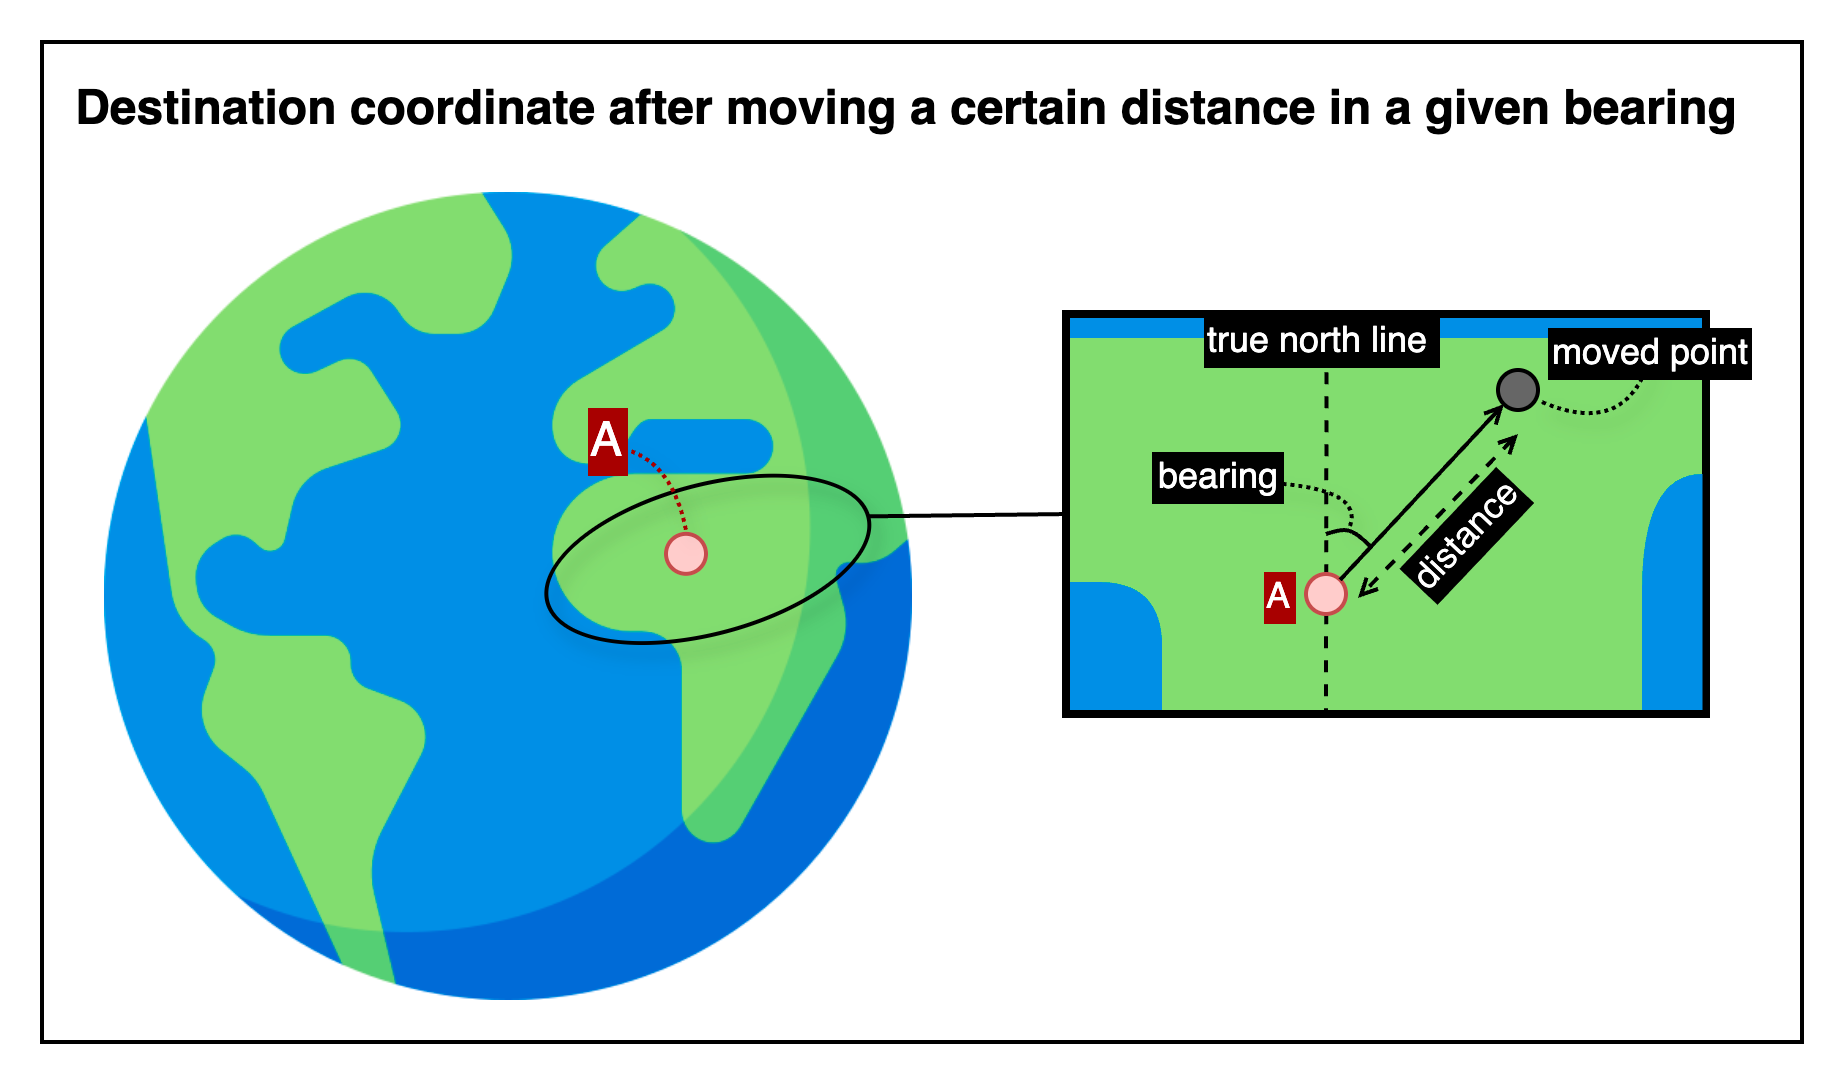
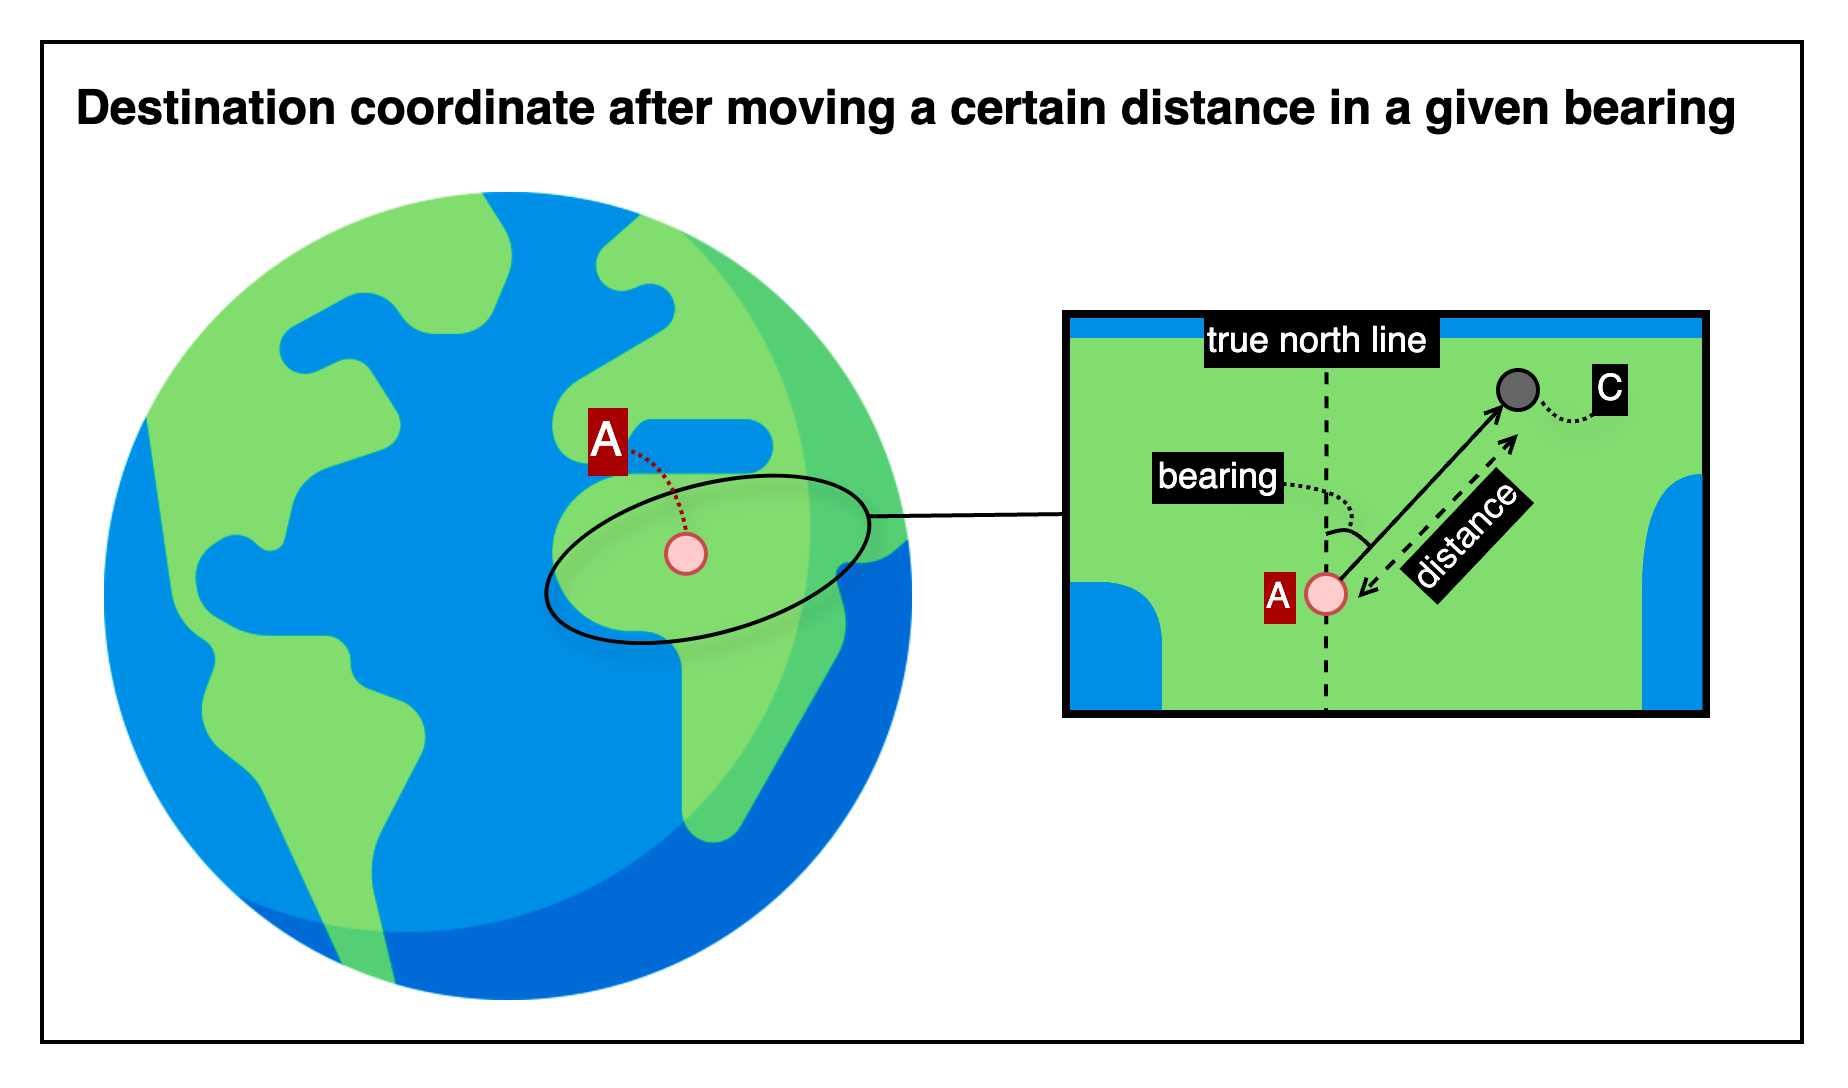
[docs] geo-calculation-toolkit-api 최신화

diff --git a/profile/projects/geo-calculation-toolkit-api/detail/destination-coordinate-after-moving-a-certain-distance-in-a-given-bearing.md b/profile/projects/geo-calculation-toolkit-api/detail/destination-coordinate-after-moving-a-certain-distance-in-a-given-bearing.md
@@ -1,0 +1,167 @@
+## Destination coordinate after moving a certain distance in a given bearing
+
+This is an HTTP API that calculates the destination coordinate after moving a specified distance in a given bearing from a starting point.
+
+---
+
+## 📚 Table of Contents
+
+1. [🧭 Overview](#-1-overview) — *For first-time users*
+2. [📤 Request Details](#-2-request-details) — *For developers integrating the API*
+    1. [Request Example](#21-request-example)
+    2. [Request Specifications](#22-request-specifications)
+3. [📥 Response Details](#-3-response-details)
+    1. [Response Example](#31-response-example)
+    2. [Response Specifications](#32-response-specifications)
+4. [💥 Error Response Details](#-4-error-response-details)
+    1. [Error Response Example](#41-error-response-example)
+    2. [Error Response Specifications](#42-error-response-specifications)
+    3. [Error Codes](#43-error-codes)
+5. [🔗 Reference Links](#-5-reference-links) — *For testing the API and retrieving your API key*
+
+---
+
+## 🧭 1. Overview
+
+![destination-coordinate-after-moving-a-certain-distance-in-a-given-bearing](./img/destination-coordinate-after-moving-a-certain-distance-in-a-given-bearing.png)
+
+This image shows how the API calculates a destination coordinate based on a specified starting point, distance, and bearing.
+
+- Point A represents the starting coordinate.
+- The dotted arc labeled “bearing” indicates the angular direction measured clockwise from true north.
+- The solid arrow line shows the movement from point A along that bearing for the specified distance.
+- Point C is the resulting coordinate — the geographic position reached after applying the movement.
+
+The API returns the resulting coordinate calculated using the given bearing and distance from the input point.
+
+---
+
+## 📤 2. Request Details
+
+### 2.1. Request Example
+
+```http request
+POST {{base-url}}/coordinate/move-in-bearing
+Content-Type: application/json
+
+{
+  "coordinate": {
+    "lat": 37.618492,
+    "lng": 126.920078
+  },
+  "bearing": 45,
+  "distance": 200,
+  "distanceUnit": "m"
+}
+```
+
+### 2.2. Request Specifications
+
+**2.2.1. Base Endpoint Info**
+
+| API Provider Platform | Method | Base URL(HTTP Protocol + Host)   | Path                             |
+|:---------------------:|:------:|----------------------------------|:---------------------------------|
+|       Rapid API       |  POST  | `https://yourapi.p.rapidapi.com` | `/coordinate/perpendicular-foot` |
+
+**2.2.2. Request Headers**
+
+| Header Name       | Type   | Required | Description                         |
+|-------------------|--------|----------|-------------------------------------|
+| `Content-Type`    | string | ✅ Yes    | Must be `application/json`          |
+| `X-RapidAPI-Key`  | string | ✅ Yes    | Your API key issued by RapidAPI     |
+| `X-RapidAPI-Host` | string | ✅ Yes    | The API host identifier on RapidAPI |
+
+**2.2.3. Request Body**
+
+| Field          | Type   | Required   | Description                                               |
+|----------------|--------|------------|-----------------------------------------------------------|
+| `coordinate`   | object | ✅ Yes      | Starting point from which the movement begins             |
+| └ `lat`        | number | ✅ Yes      | Latitude of the starting coordinate                       |
+| └ `lng`        | number | ✅ Yes      | Longitude of the starting coordinate                      |
+| `bearing`      | number | ✅ Yes      | Bearing in degrees (0–360), where 0° is true north        |
+| `distance`     | number | ✅ Yes      | Distance to move along the bearing                        |
+| `distanceUnit` | string | ❌ Optional | Unit of distance (`mm`, `m`, `km`, etc.). Defaults to `m` |
+
+---
+
+## 📥 3. Response Details
+
+### 3.1. Response Example
+
+```json
+{
+  "success": true,
+  "data": {
+    "coordinate": {
+      "lat": 37.618453,
+      "lng": 126.920180
+    }
+  }
+}
+```
+
+### 3.2. Response Specifications
+
+| Field          | Type    | Nullable | Description                                               |
+|----------------|---------|----------|-----------------------------------------------------------|
+| `success`      | boolean | ❌ No     | Indicates whether the operation succeeded                 |
+| `data`         | object  | ❌ No     | Included only when `success` is `true`                    |
+| └ `coordinate` | object  | ❌ No     | Resulting coordinate after moving along the given bearing |
+| └─ `lat`       | number  | ❌ No     | Latitude of the resulting coordinate                      |
+| └─ `lng`       | number  | ❌ No     | Longitude of the resulting coordinate                     |
+
+---
+
+## 💥 4. Error Response Details
+
+### 4.1. Error Response Example
+
+```http request
+400 Bad Request
+Content-Type: application/json
+
+{
+  "success": false,
+  "code": "REQUIRED_PARAMETER_MISSING",
+  "message": "Required parameter is missing.",
+  "detailMessage": "Required parameter is missing. (fromCoordinate)"
+}
+```
+
+### 4.2. Error Response Specifications
+
+**4.2.1. Error Response Headers**
+
+| Header Name    | Example Value      | Description                    |
+|----------------|--------------------|--------------------------------|
+| `Content-Type` | `application/json` | MIME type of the response body |
+
+**4.2.2. Error Response Body**
+
+| Field           | Type    | Nullable | Description                                                                      |
+|-----------------|---------|----------|----------------------------------------------------------------------------------|
+| `success`       | boolean | ❌ No     | Indicates whether the operation was successful. Always `false` here.             |
+| `code`          | string  | ❌ No     | Application-defined error code representing the type of failure.                 |
+| `message`       | string  | ❌ No     | General explanation of the error.                                                |
+| `detailMessage` | string  | ❌ No     | Additional information providing context about the error for debugging purposes. |
+
+### 4.3. Error Codes
+
+To view the full list of error codes, please visit the link below.
+
+- [Error Codes](./common/error-codes.md)
+
+---
+
+## 🔗 5. Reference Links
+
+- [🚀 Try the API on RapidAPI Console](https://rapidapi.com/your-api/test)  
+  Run live requests, view sample code, pricing, and manage your API key—all in one place.
+
+
+- [💬 Contact Support](mailto:support@yourapi.com)  
+  If you have any questions or need help with the API, feel free to email us. We’ll get back to you as soon as possible.
+
+---
+
+[Go to API List](../index.md)
